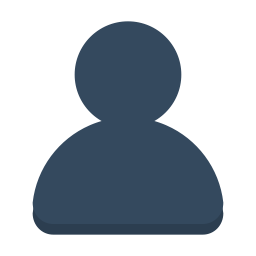
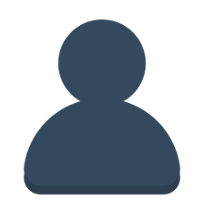
Changed create action on posts_controller
- changed tests
- created views to posts
- changed profile views
- add user-default images with different sizes
- changed menu layout

diff --git a/app/assets/stylesheets/helpers.scss b/app/assets/stylesheets/helpers.scss
@@ -22,3 +22,5 @@
   border-radius: 3px;
   background-color: rgba(55, 90, 127, .1);
 }
+
+

diff --git a/spec/controllers/posts/create_action_spec.rb b/spec/controllers/posts/create_action_spec.rb
@@ -16,8 +16,8 @@ describe PostsController, '#create', type: [:controller, :post] do
       expect(response.content_type).to eq Mime::JS
     end
 
-    it 'response status should be 200' do
-      expect(response.status).to eq 200
+    it 'should render :create template' do
+      expect(subject).to render_template :create
     end
   end
 
@@ -28,12 +28,8 @@ describe PostsController, '#create', type: [:controller, :post] do
       expect(response.content_type).to eq Mime::JS
     end
 
-    it "flash[:alert] should be 'This post cannot be posted'" do
-      expect(flash[:alert]).to eq 'This post cannot be posted'
-    end
-
-    it 'should render :create_fail template' do
-      expect(subject).to render_template :create_fail
+    it 'should render :create template' do
+      expect(subject).to render_template :create
     end
   end
 end

diff --git a/app/controllers/users_controller.rb b/app/controllers/users_controller.rb
@@ -3,14 +3,21 @@ class UsersController < ApplicationController
   before_action :set_user, only: [:show]
 
   def show
+    redirect_to :my_profile if @user == current_user
+    set_posts @user
   end
 
   def my_profile
+    set_posts current_user
   end
 
   private
 
     def set_user
       @user = User.find params[:id]
+    end
+
+    def set_posts user
+      @posts = user.posts.reverse
     end
 end

diff --git a/app/controllers/posts_controller.rb b/app/controllers/posts_controller.rb
@@ -6,11 +6,7 @@ class PostsController < ApplicationController
     @post = Post.new post_params
 
     if @post.save
-      current_user.posts.reload
-      render :create
-    else
-      flash[:alert] = 'This post cannot be posted'
-      render :create_fail
+      flash.now[:notice] = 'Content successfully posted'
     end
   end
 
